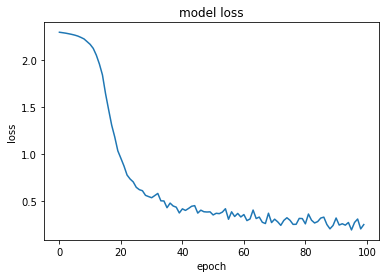
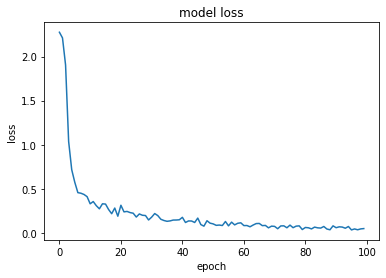
DNN MNIST

diff --git a/_posts/2021-04-10-MNIST.md b/_posts/2021-04-10-MNIST.md
@@ -115,6 +115,8 @@ from torch import optim
 from torch.utils.data import TensorDataset
 from torch.utils.data import DataLoader
 import matplotlib.pyplot as plt
+import time
+
 
 # GPU로 바꾸려했지만, 
 # RuntimeError: Tensor for argument #2 ‘weight’ is on CPU, but expected it to be on GPU (while checking arguments for cudnn_batch_norm) 가 떠서 해결법을 못찾음
@@ -201,15 +203,18 @@ x_train, y_train으로 학습을 끝낸 후
 train, valid의 정확도를 출력
 '''
 def fit(epochs, model, loss_func, opt, train_dl, valid_dl):
+    start = time.time()
     train_loss = []
     for epoch in range(epochs):
         model.train()
         for xb, yb in train_dl:
             loss = loss_batch(model, loss_func, xb, yb, opt)
         train_loss.append(loss)
-
+        if (epoch + 1) % 10 == 0: 
+            print('{} epoch is done'.format(epoch + 1))
     print('train accuracy : ', accuracy(model(x_train), y_train))  
-    print('vaild accuracy : ', accuracy(model(x_valid), y_valid))        
+    print('vaild accuracy : ', accuracy(model(x_valid), y_valid)) 
+    print("cost time :", round(time.time() - start, 2))       
     return train_loss
 ```
 
@@ -217,7 +222,7 @@ def fit(epochs, model, loss_func, opt, train_dl, valid_dl):
 ```python
 batch_size = 1024
 epochs = 100
-lr = 0.01
+lr = 0.05
 # Dataset 정리
 train_ds = TensorDataset(x_train, y_train)
 valid_ds = TensorDataset(x_valid, y_valid)
@@ -236,8 +241,20 @@ model, opt = get_model(layer = 1, lr = lr)
 train_loss = fit(epochs, model, loss_func, opt, train_dl, valid_dl)
 ```
 
-    train accuracy :  tensor(0.8970)
-    vaild accuracy :  tensor(0.9038)
+    /usr/local/lib/python3.7/dist-packages/ipykernel_launcher.py:34: UserWarning: Implicit dimension choice for log_softmax has been deprecated. Change the call to include dim=X as an argument.
+    10 epoch is done
+    20 epoch is done
+    30 epoch is done
+    40 epoch is done
+    50 epoch is done
+    60 epoch is done
+    70 epoch is done
+    80 epoch is done
+    90 epoch is done
+    100 epoch is done
+    train accuracy :  tensor(0.9168)
+    vaild accuracy :  tensor(0.9180)
+    cost time : 52.47
 
 
 
@@ -261,8 +278,20 @@ model, opt = get_model(layer = 2, lr = lr)
 train_loss = fit(epochs, model, loss_func, opt, train_dl, valid_dl)
 ```
 
-    train accuracy :  tensor(0.9187)
-    vaild accuracy :  tensor(0.9216)
+    /usr/local/lib/python3.7/dist-packages/ipykernel_launcher.py:34: UserWarning: Implicit dimension choice for log_softmax has been deprecated. Change the call to include dim=X as an argument.
+    10 epoch is done
+    20 epoch is done
+    30 epoch is done
+    40 epoch is done
+    50 epoch is done
+    60 epoch is done
+    70 epoch is done
+    80 epoch is done
+    90 epoch is done
+    100 epoch is done
+    train accuracy :  tensor(0.9645)
+    vaild accuracy :  tensor(0.9608)
+    cost time : 215.06
 
 
 
@@ -286,8 +315,20 @@ model, opt = get_model(layer = 3, lr = lr)
 train_loss = fit(epochs, model, loss_func, opt, train_dl, valid_dl)
 ```
 
-    train accuracy :  tensor(0.9255)
-    vaild accuracy :  tensor(0.9281)
+    /usr/local/lib/python3.7/dist-packages/ipykernel_launcher.py:34: UserWarning: Implicit dimension choice for log_softmax has been deprecated. Change the call to include dim=X as an argument.
+    10 epoch is done
+    20 epoch is done
+    30 epoch is done
+    40 epoch is done
+    50 epoch is done
+    60 epoch is done
+    70 epoch is done
+    80 epoch is done
+    90 epoch is done
+    100 epoch is done
+    train accuracy :  tensor(0.9791)
+    vaild accuracy :  tensor(0.9718)
+    cost time : 294.46
 
 
 
@@ -311,8 +352,20 @@ model, opt = get_model(layer = 4, lr = lr)
 train_loss = fit(epochs, model, loss_func, opt, train_dl, valid_dl)
 ```
 
-    train accuracy :  tensor(0.9272)
-    vaild accuracy :  tensor(0.9266)
+    /usr/local/lib/python3.7/dist-packages/ipykernel_launcher.py:34: UserWarning: Implicit dimension choice for log_softmax has been deprecated. Change the call to include dim=X as an argument.
+    10 epoch is done
+    20 epoch is done
+    30 epoch is done
+    40 epoch is done
+    50 epoch is done
+    60 epoch is done
+    70 epoch is done
+    80 epoch is done
+    90 epoch is done
+    100 epoch is done
+    train accuracy :  tensor(0.9888)
+    vaild accuracy :  tensor(0.9759)
+    cost time : 317.36
 
 
 
@@ -336,8 +389,20 @@ model, opt = get_model(layer = 5, lr = lr)
 train_loss = fit(epochs, model, loss_func, opt, train_dl, valid_dl)
 ```
 
-    train accuracy :  tensor(0.9267)
-    vaild accuracy :  tensor(0.9247)
+    /usr/local/lib/python3.7/dist-packages/ipykernel_launcher.py:34: UserWarning: Implicit dimension choice for log_softmax has been deprecated. Change the call to include dim=X as an argument.
+    10 epoch is done
+    20 epoch is done
+    30 epoch is done
+    40 epoch is done
+    50 epoch is done
+    60 epoch is done
+    70 epoch is done
+    80 epoch is done
+    90 epoch is done
+    100 epoch is done
+    train accuracy :  tensor(0.9420)
+    vaild accuracy :  tensor(0.9361)
+    cost time : 311.30
 
 
 
@@ -355,16 +420,15 @@ plt.show()
 
 
 # 종합적인 비교
-> 각 layer 노드가 많아 시간이 오래걸려 하이퍼파라미터 튜닝을 많이 못해봤지만, 대체적으로 **layer가 많다고 정확도가 좋아지진 않았다.** 
+> 각 layer 노드가 많아 시간이 오래걸려 하이퍼파라미터 튜닝을 많이 못해봤지만,  **layer가 많다고 무조건 성능이 계속 좋아지진 않는다.** 
 >
 > 확실이 Machine Learning 모델(SVM, Logistic Regression 등등)로 돌렸을 때보다 성능이 많이 좋은것이 체감이되고, torch.nn 모듈 사용으로 인해 코드가 정말 간결해졌다.  
 >
-> 그런데 어떻게 train보다 valid의 정확도가 더 높은지... 알수가없다.
 
 
 ```python
-train_accuracy = [0.8970, 0.9187, 0.9255, 0.9272, 0.9267]
-valid_accuracy = [0.9038, 0.9216, 0.9281, 0.9266, 0.9247]
+train_accuracy = [0.9168, 0.9645, 0.9791, 0.9888, 0.9420]
+valid_accuracy = [0.9180, 0.9608, 0.9718, 0.9759, 0.9361]
 x = [1, 2, 3, 4, 5]
 # summarize history for accuracy
 plt.plot(x, train_accuracy)
